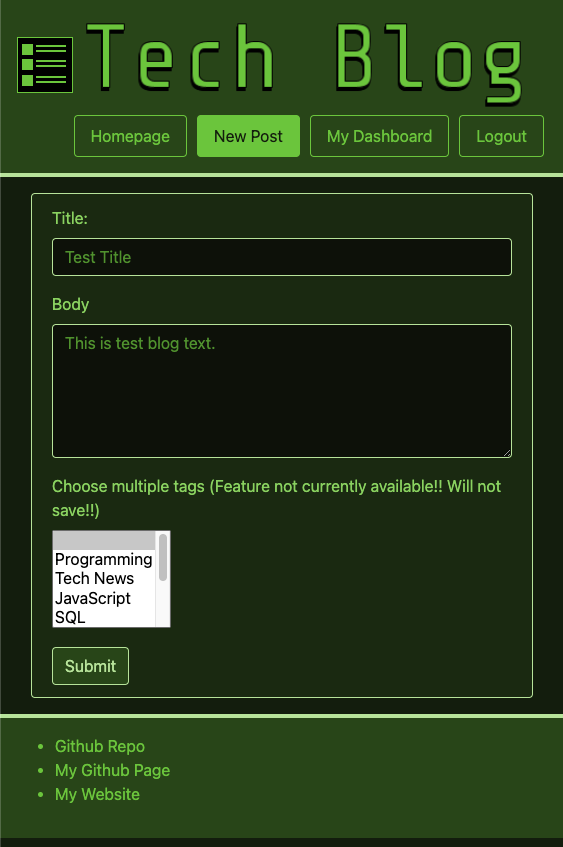
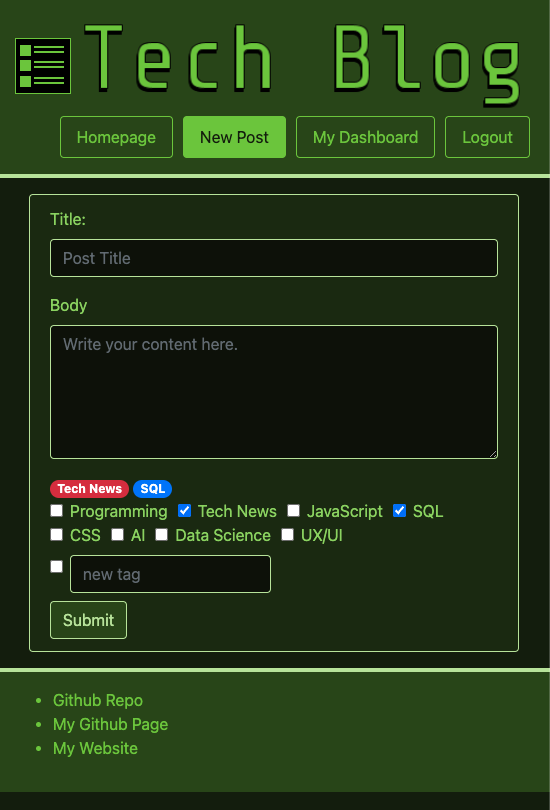
update readme with tags content

diff --git a/README.md b/README.md
@@ -99,7 +99,8 @@ THEN I am able to view comments but I am prompted to log in again before I can a
 
 5. I made special 'get' objects containing functions for each model, in their 'modelRoutes' file, which were then exported to 'homeRoutes'.  This is because I was doing the same sort of database lookups in the 'api' folder as in the file that fills out the views.  I didn't want to write the function twice in two places, and I wanted to keep 'homeRoutes' just focused on what data is getting sent to the views.  It also made it much easier to test with Insomnia what data the views were receiving.
 
-6. 6. The use of tags is still in development. It's all set up in the model though, which is why the seed posts have tags. Since it's a many-to-many relationship, a lot more has to be set up still to be able to get an array of tag ids for a post, and to use an array of ids to update the tags. That will involve creating and destroying of BlogpostTag instances. But I did want to show what it could look like, though it also would be good to be able to create a tag there, too. And have it look like other tag suggestion boxes too.
+6. As of the evening of 7/23/23, I have added user tag functionality.  You can add and update the tags.  There were some things in Sequelize that facilitated the updating the tags of a post, with the many-to-many association.  You can even make a new tag.  It doesn't have all the bells and whistles of adding tags, but it does the job.
+    >The use of tags is still in development. It's all set up in the model though, which is why the seed posts have tags. Since it's a many-to-many relationship, a lot more has to be set up still to be able to get an array of tag ids for a post, and to use an array of ids to update the tags. That will involve creating and destroying of BlogpostTag instances. But I did want to show what it could look like, though it also would be good to be able to create a tag there, too. And have it look like other tag suggestion boxes too.
 
 7. It would be nice that, when you get redirected to login, that it sends you back to the page you were redirected from.  Would that be an attribute you'd add to the session?
 
